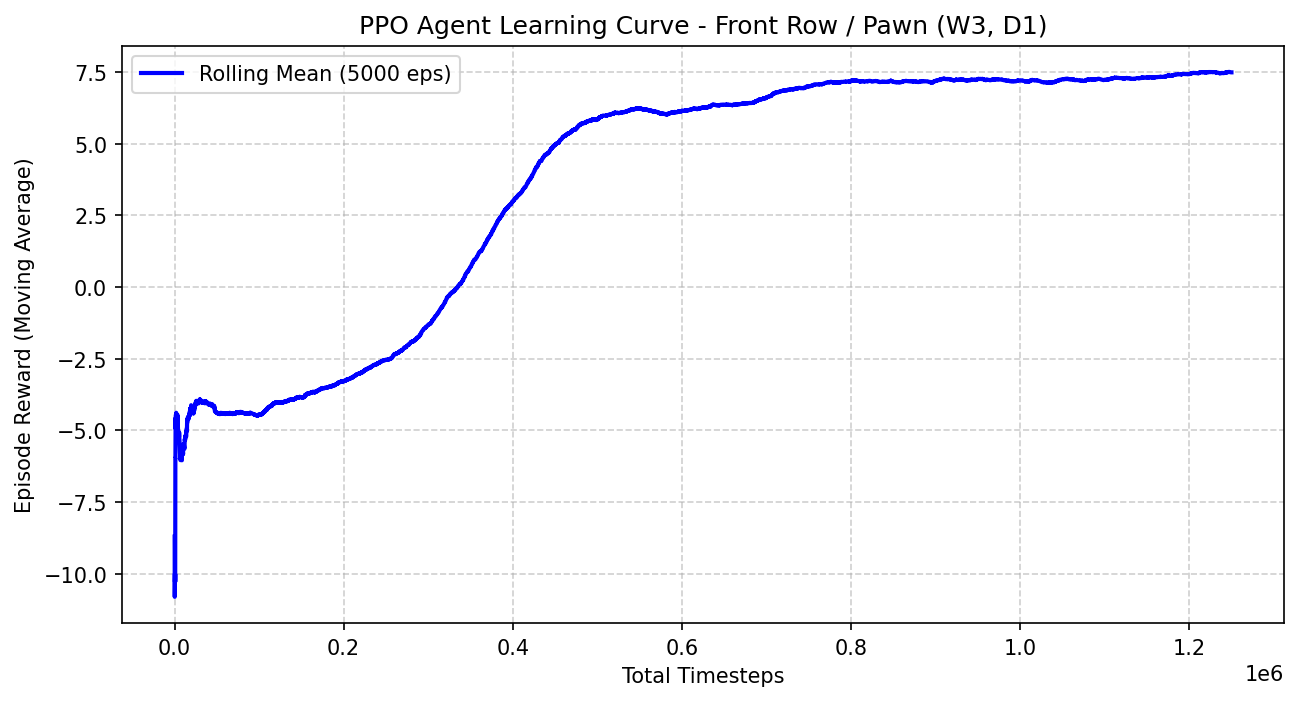
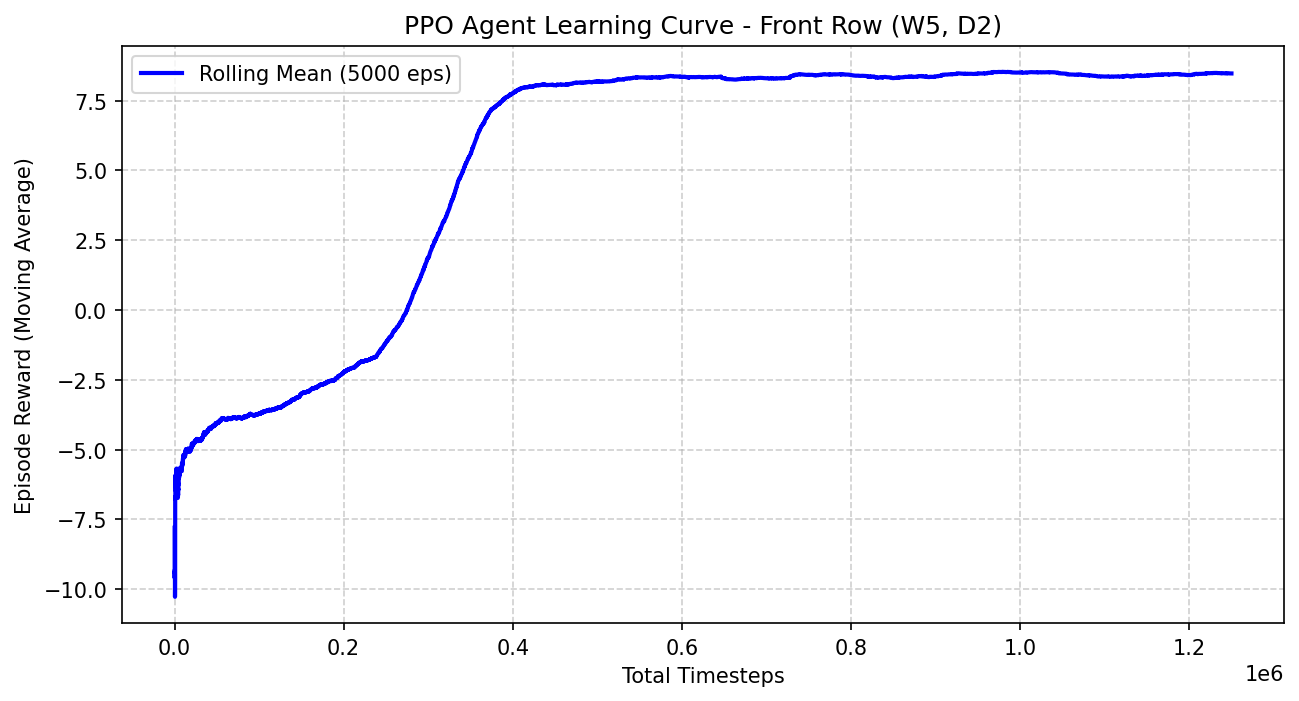
minor changes to push for training

diff --git a/config.py b/config.py
@@ -51,13 +51,13 @@ AVAILABLE_SENSORS = {
     },
 }
 
-ACTIVE_SENSOR = "front_row_3_1"
+ACTIVE_SENSOR = "diagonal_4"
 MODELS_TO_TRAIN = ["front_row_3_1", "front_row_5_1", "front_row_3_2", "front_row_5_2", "diagonal_3", "diagonal_4"]  # List of sensors to train sequentially in ppo_train.py
 # sensor names for me = ["line_3", "line_4", "cone_3", "cone_4", "front_row_3_1", "front_row_5_1", "front_row_3_2", "front_row_5_2", "diagonal_3", "diagonal_4"]
 
 SAVED_MODELS_DIR = "saved_models"
 NUMBER_OF_ENVIRONMENTS = 1000
-NUM_EPISODES_FOR_AGENT_RUN = 1
+NUM_EPISODES_FOR_AGENT_RUN = 5
 WINDOW_SIZE = 5000
 TOTAL_TRAINING_STEPS = 1250000
 # TOTAL_TRAINING_STEPS = 10

diff --git a/run_sensor_comparison.py b/run_sensor_comparison.py
@@ -237,7 +237,7 @@ def analyze_results():
     axes[1].set_xticklabels([c.replace('sensor_', '').replace('_reward', '') for c in sensor_cols])
     axes[1].tick_params(axis='x', rotation=45)
     axes[1].set_ylabel('Accumulated Reward')
-    axes[1].set_ylim(4,11)
+    axes[1].set_ylim(-6,11)
     axes[1].grid(True)
     axes[1].set_title(f'Reward Distribution across {NUMBER_OF_ENVIRONMENTS} Environments')
 
